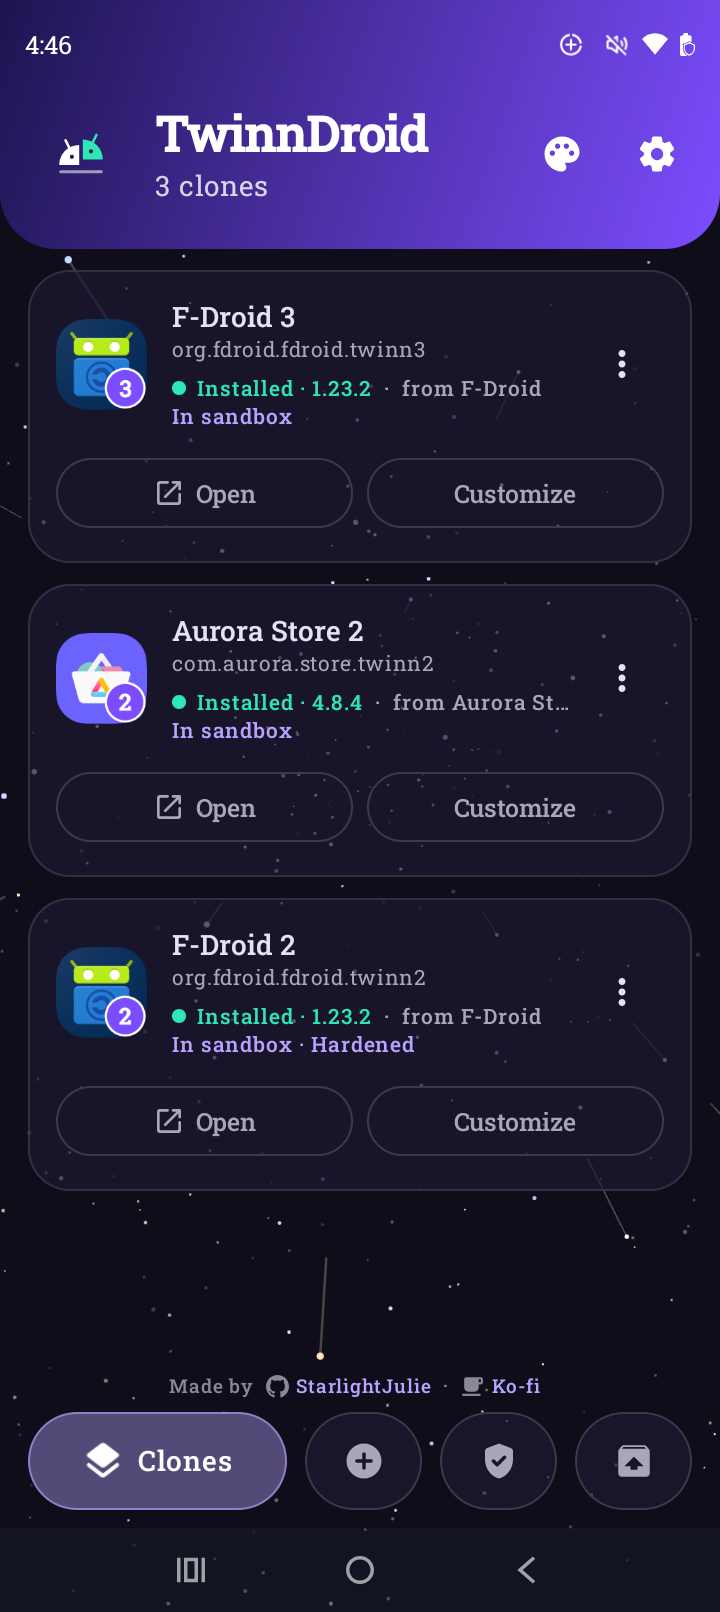
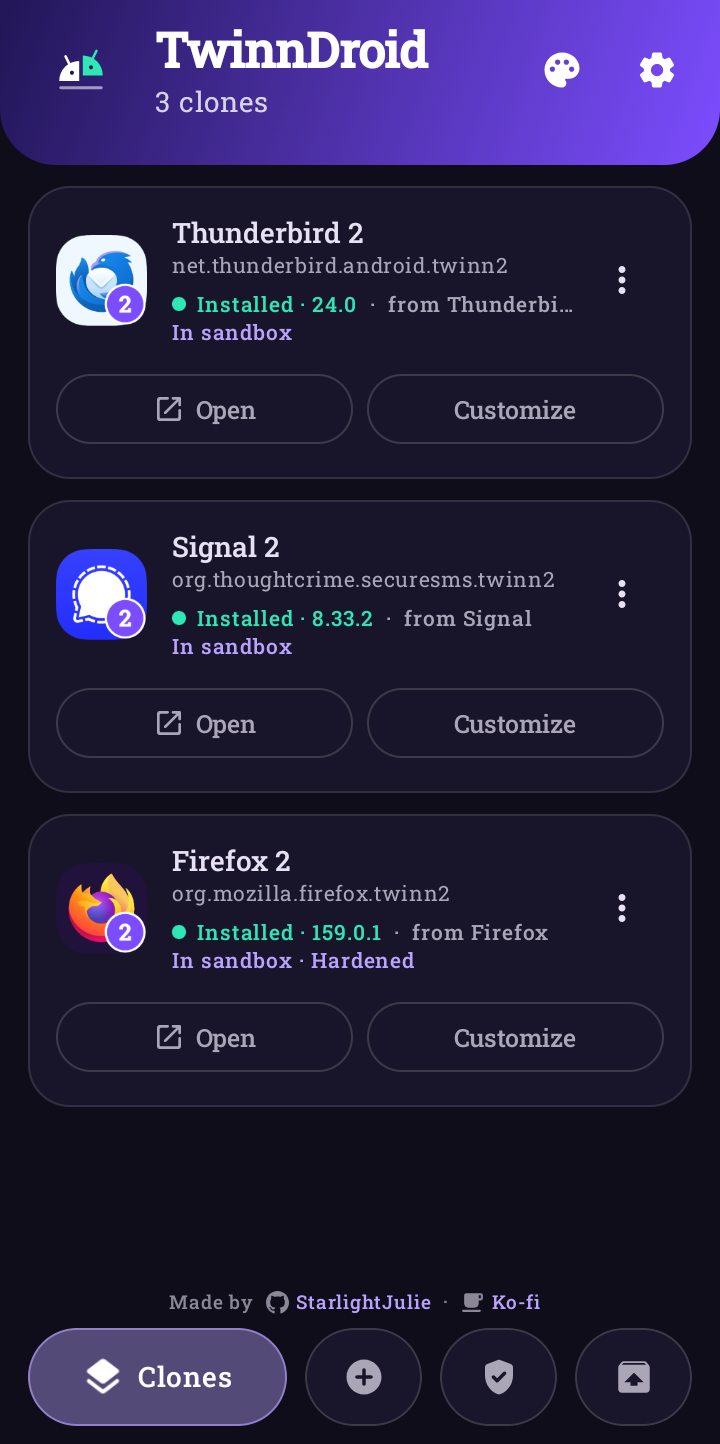
Redo the README screenshots and mention My themes
Five shots from the Moto G now, cropped so there's no status bar, with the background animation off.

diff --git a/README.md b/README.md
@@ -17,10 +17,11 @@ No root, no virtual space. Every copy is a real app, kept apart by Android itsel
 
 <br><br>
 
-<img src="docs/screenshots/clones.png" width="24%" alt="The Clones tab with three clones">
-<img src="docs/screenshots/editor.png" width="24%" alt="The clone editor">
-<img src="docs/screenshots/sandbox.png" width="24%" alt="The Sandbox tab">
-<img src="docs/screenshots/isolation.png" width="24%" alt="Sandbox and isolation options for a clone">
+<img src="docs/screenshots/clones.png" width="19%" alt="The Clones tab with three clones">
+<img src="docs/screenshots/editor.png" width="19%" alt="The new clone editor">
+<img src="docs/screenshots/appearance.png" width="19%" alt="The Appearance menu">
+<img src="docs/screenshots/sandbox.png" width="19%" alt="The Sandbox tab">
+<img src="docs/screenshots/isolation.png" width="19%" alt="Sandbox and isolation options for a clone">
 
 </div>
 
@@ -41,7 +42,7 @@ I was using Shelter to run a second copy of a couple of apps, but I wanted one p
 - **Keeps clones updated**: when the original app updates, you get a heads-up, and one tap updates the copy without logging you out
 - **Extracts APKs** from any installed app (splits included) as `.apk`, `.apks`, `.xapk`, `.apkm`, or one merged `.apk`
 - **Installs silently** if you use [Shizuku](https://shizuku.rikka.app/) (optional)
-- **Looks how you want**: 14 animated backgrounds, 12 theme presets with matching app icons, your own colours, Material You, a frosted-glass header and more
+- **Looks how you want**: 14 animated backgrounds, 12 theme presets with matching app icons, your own colours and saved themes, Material You, a frosted-glass header and more
 - **Backs everything up**, so you can move your clones and settings to a new phone
 - **Speaks your language**: 23 languages, including the 20 most spoken in the world, from **Settings → Language** (Arabic and Urdu get a proper right-to-left layout)
 - **Tells you when there's a new version** with a short pop-up and the release notes
@@ -175,6 +176,7 @@ Tap the palette button on the Clones tab:
 | **Background & effects** | Space, Particles, Circles, Rings, Mesh, Shapes, Snow, Grid, Lava lamp, Aurora, Waves, Fireflies, Bokeh, Meteors, None or Random, plus tilt **Parallax**. **Preview background** hides everything so you can just watch it. Animations pause when TwinnDroid is in the background and turn off if you've disabled animations in Android. The look was inspired by [Morphe Patcher](https://github.com/MorpheApp/morphe-manager). |
 | **Home header** | Gradient, Glass, Solid or None, with opacity, real blur (Android 12+), roundness and a floating style. You can also put frosted pills behind the icon, title and buttons. |
 | **Presets** | TwinnDroid, Midnight AMOLED, Ocean, Forest, Sunset, Rose, High contrast, Lavender, Cyberpunk, Nord, Dracula, Matcha. Turn on **Match app icon** and TwinnDroid's icon changes with the theme. |
+| **My themes** | Drop-downs for custom colours, background & effects, text size and the home header. Save the whole look under a name and switch between your themes with one tap. |
 | **System / Light / Dark** | Follow your phone or pick one |
 | **Material You** | Colours from your wallpaper (Android 12+) |
 | **Custom colours** | Pick each colour yourself with a picker or hex code |
